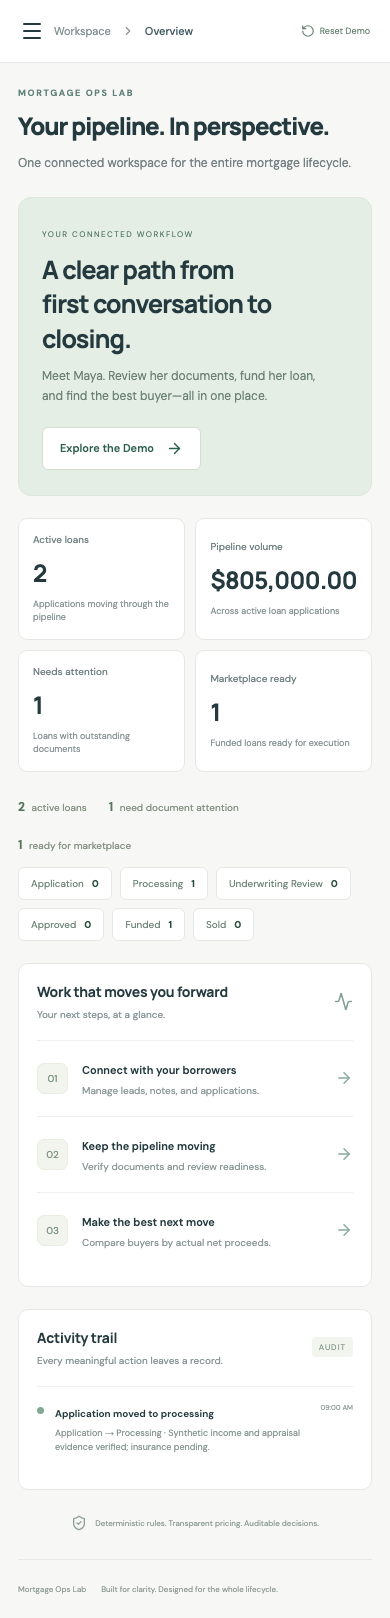
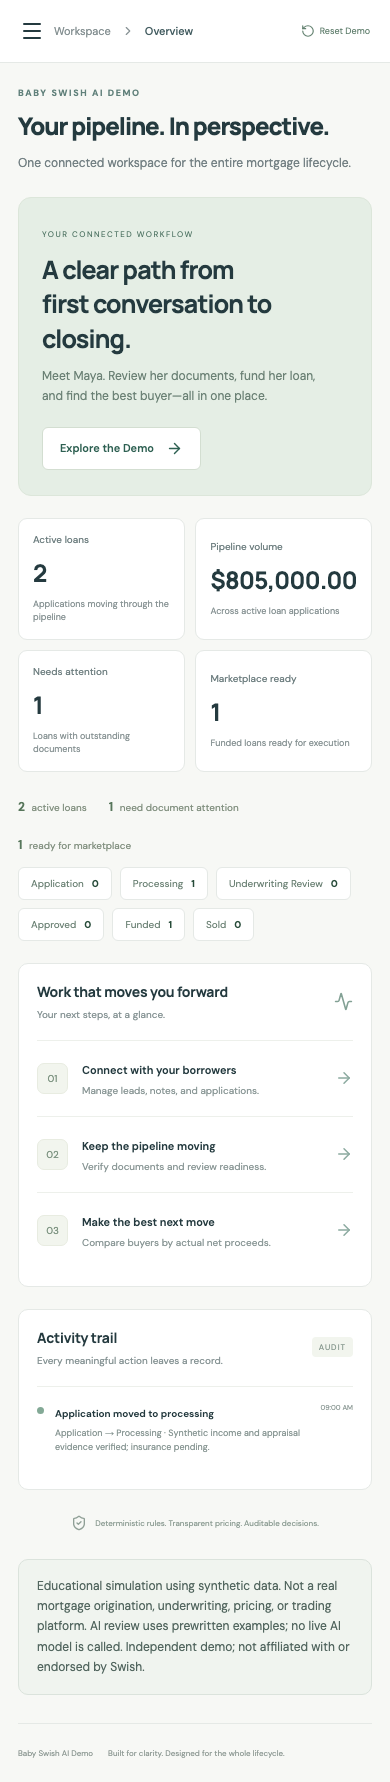
LU: capture final branded production screenshots

diff --git a/ENGINEERING_LOG.md b/ENGINEERING_LOG.md
@@ -21,3 +21,5 @@ Persistence schema checks were expanded after review revealed that structurally 
 The mobile sidebar originally stayed in the accessibility tree while offscreen, creating duplicate Reset buttons. Hidden sidebar visibility and browser assertions corrected this. Notes now save on blur instead of generating an audit event per keystroke. The production export succeeded with /mortgage-ops-lab asset paths; its compiler required approved local subprocess networking in this environment. Real screenshots were captured and visually inspected.
 
 At the user's request the presentation name became Baby Swish AI Demo; Dan Swantek is the fictional operations manager shown in the UI. Git authorship remains Lalith Uriti, with LU in the shipping commit. A visible independent-demo disclaimer explains synthetic data, no real financial platform, no live AI call and no Swish affiliation.
+
+Production bundle inspection at the real /mortgage-ops-lab/ base path returned the final Baby Swish AI Demo title, loaded all assets without HTTP or runtime errors, and showed no horizontal overflow at 390px. Screenshots were recaptured from that export with the final branding and Dan Swantek profile. All 58 unit tests and four browser tests passed after final text and control changes.
